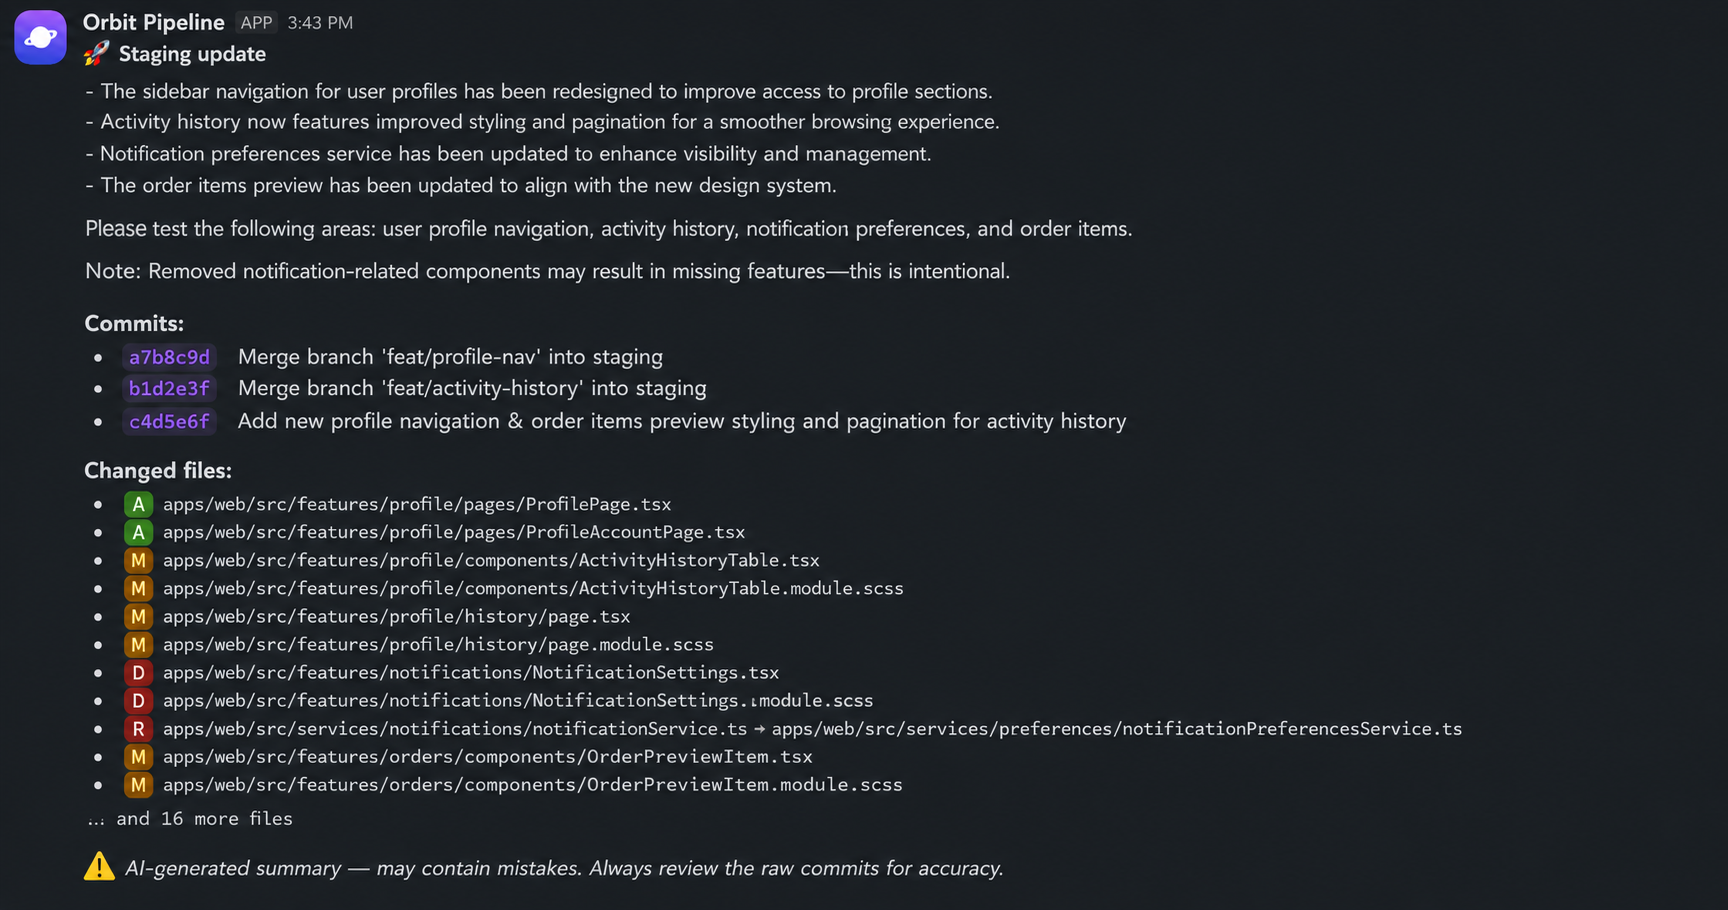
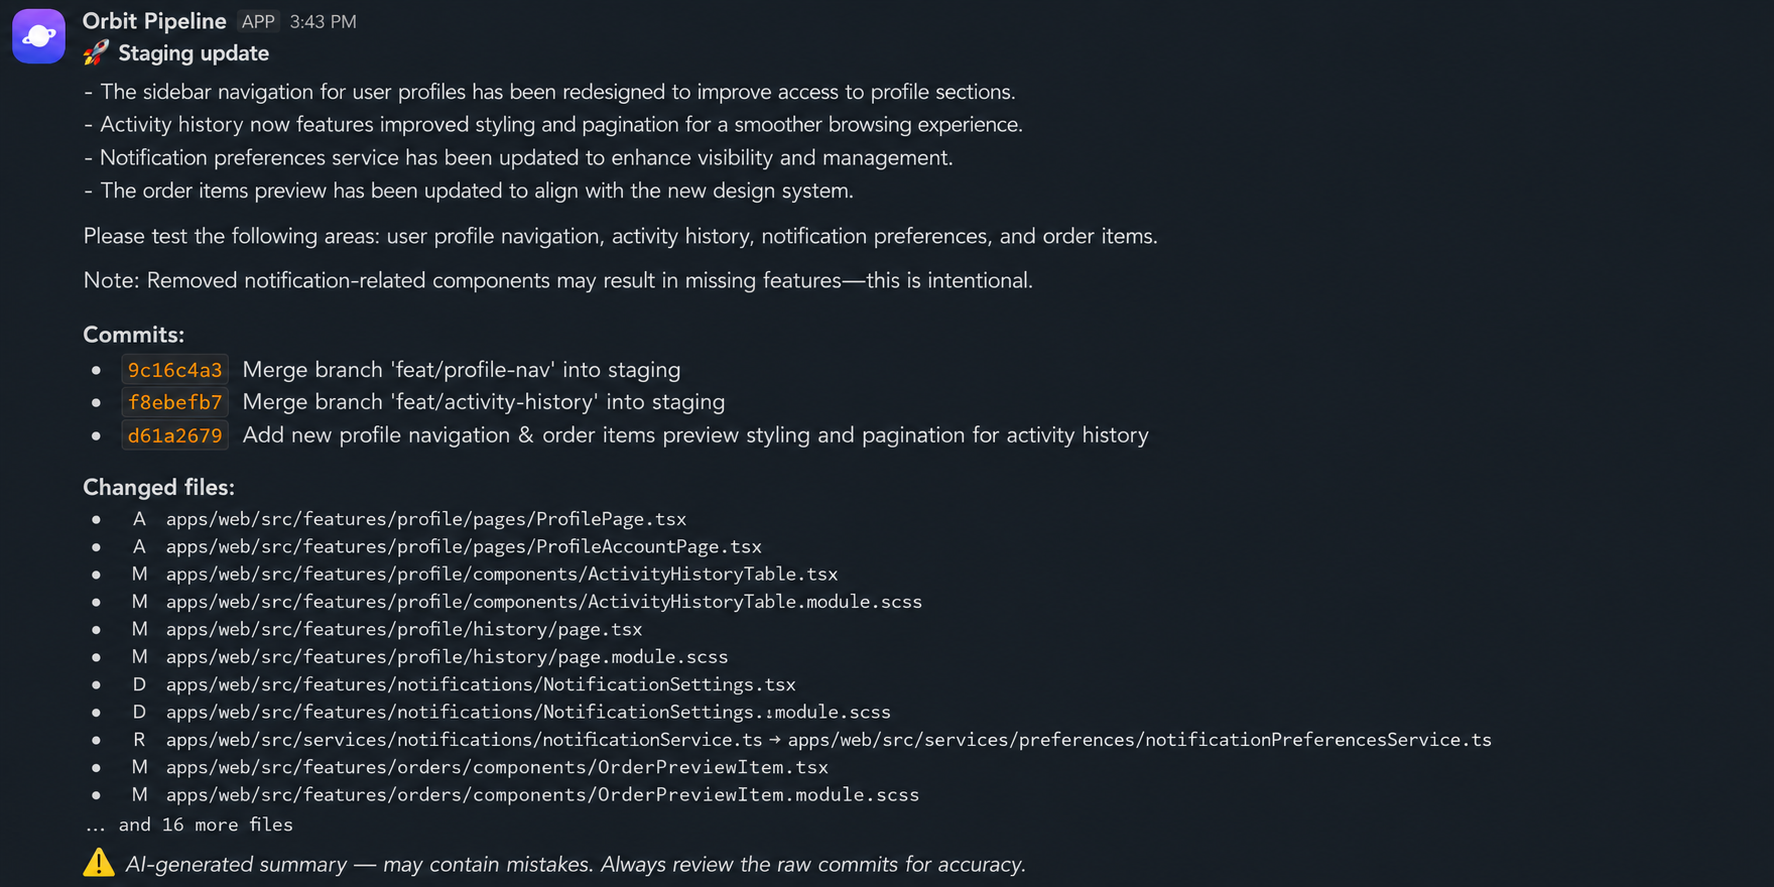
docs: update README to use latest image tag in CI example, replace outdated comment

Changed region(s): [[0.0, 0.0, 0.8438, 1.0]]

diff --git a/README.md b/README.md
@@ -41,7 +41,7 @@ deploy, when there's no previous pipeline to compare against.
 ```yaml
 notify-staging:
   stage: notify
-  image: bytesfue/stagingbrief:v0.3.1  # Pin to a specific version for reproducibility
+  image: bytesfue/stagingbrief:latest  # Or pin to a specific version for reproducibility
   script:
     - /notify
   rules:
